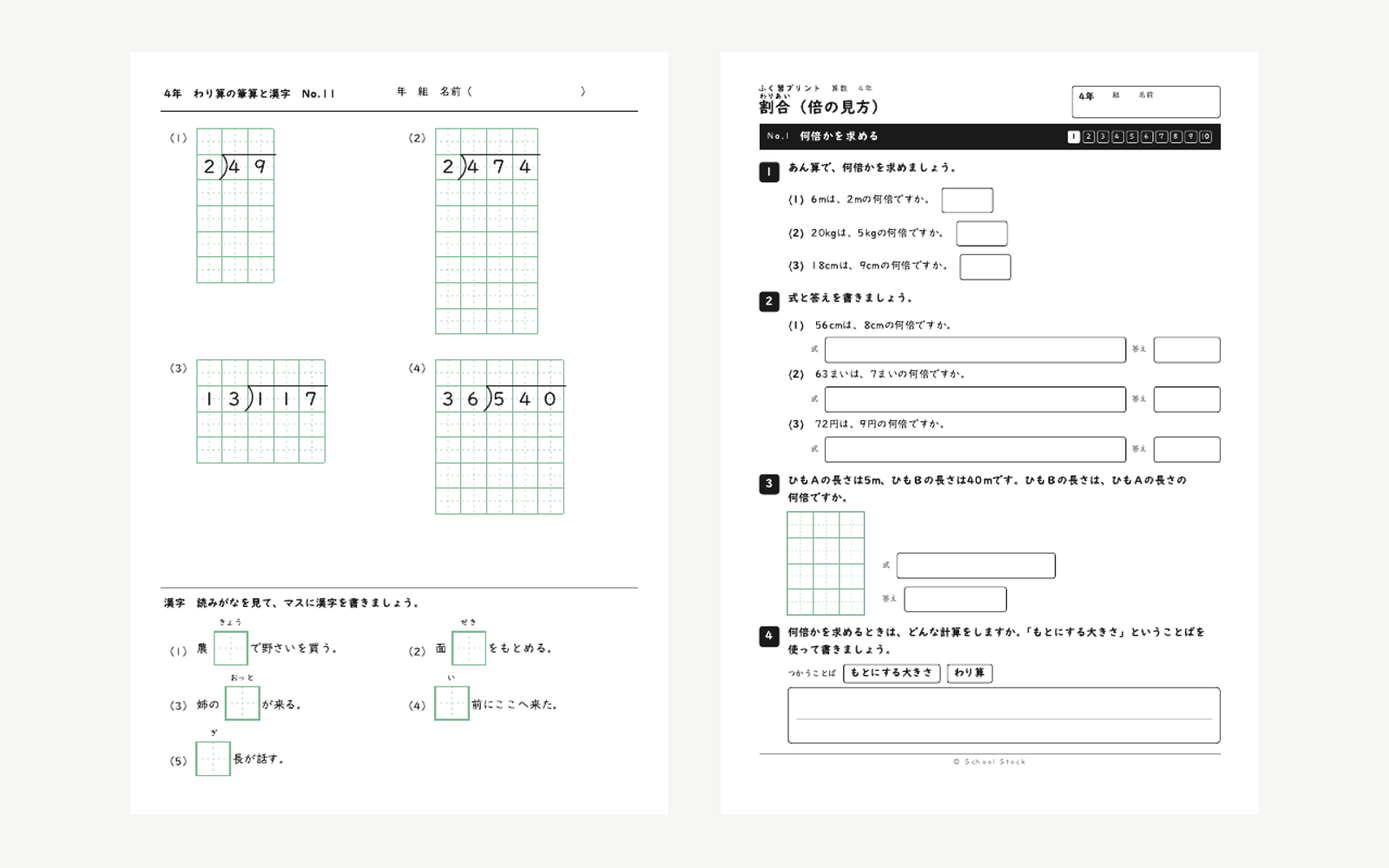
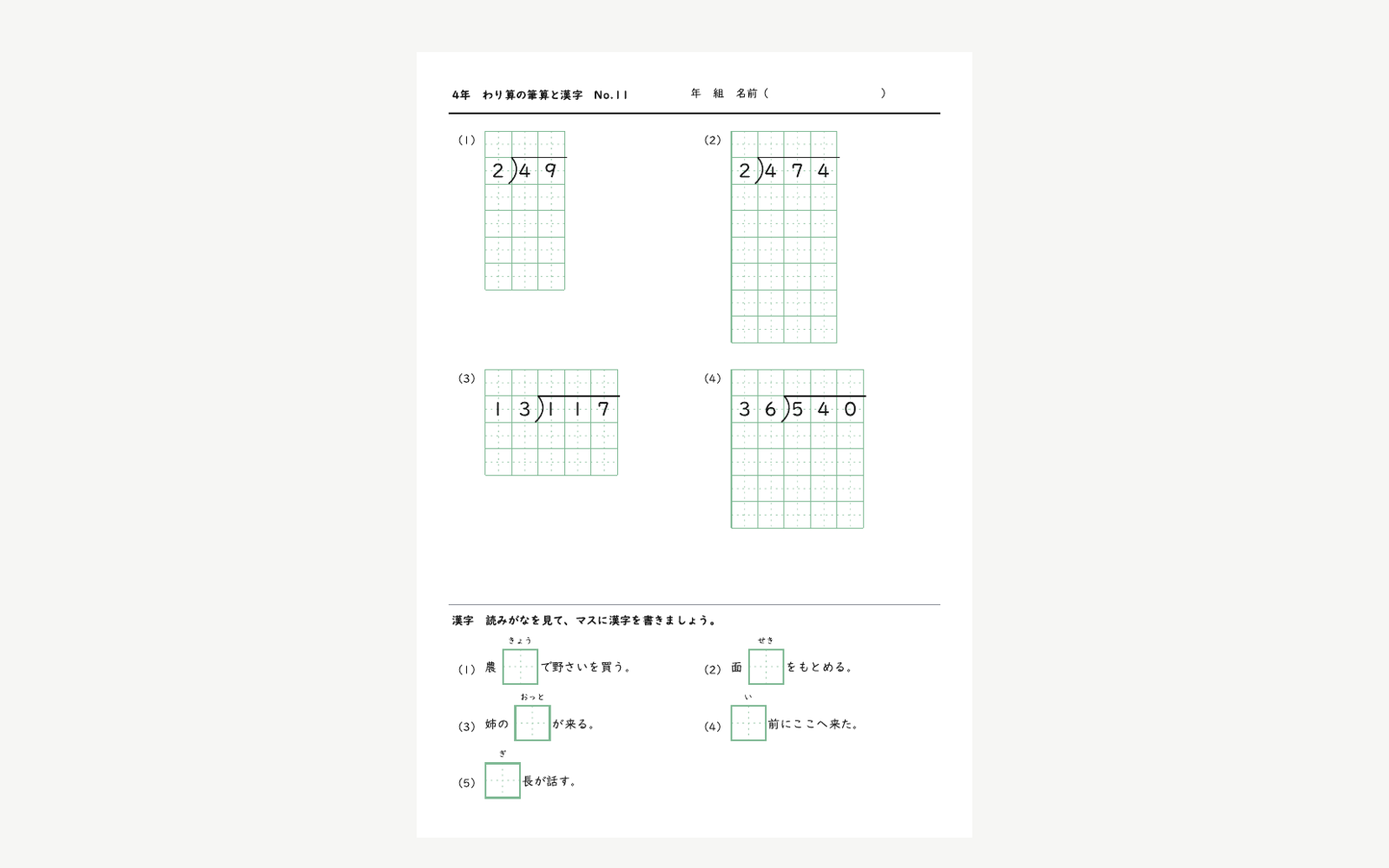
さよなら算数のページ：上の見本の絵を外し、さよなら算数（わり算の筆算と漢字）とふく習プリント（宿題）を別の列・別のダウンロードに分けた

diff --git a/gakkyu/sayonara-sansu/index.html b/gakkyu/sayonara-sansu/index.html
@@ -10,7 +10,7 @@
 <meta property="og:image" content="https://a-tozak.github.io/School_Stock/gakkyu/sayonara-sansu/card.png">
 <meta name="twitter:card" content="summary_large_image">
 <meta name="twitter:image" content="https://a-tozak.github.io/School_Stock/gakkyu/sayonara-sansu/card.png">
-<meta name="description" content="4年の学級で毎日使っている2まいのプリントです。わり算の筆算と漢字の1まいと、帰る前のさよなら算数（習った単元のふく習）1まい。2026年11月と12月の授業日37日ぶん。無料。">
+<meta name="description" content="4年の学級で、毎日帰る前に取り組んでいるプリントです。わり算の筆算4問と漢字5問の1まいで、表が問題、裏がこたえです。2026年11月と12月の授業日37日ぶん。宿題のふく習プリントも別のファイルで置いています。無料。">
 <link rel="manifest" href="/School_Stock/manifest.webmanifest">
 <meta name="theme-color" content="#0e0f11">
 <link rel="apple-touch-icon" href="/School_Stock/assets/favicon-180.png">
@@ -83,17 +83,15 @@ a { color:var(--accent); text-decoration:none; }
 .dlsub { display:inline-flex; align-items:center; gap:6px; font-size:13px; font-weight:700; color:var(--accent); border:1px solid var(--accent); padding:8px 14px; }
 .dlsub svg { width:14px; height:14px; }
 .dlsub:hover { background:var(--accent); color:#fff; }
-.tw { overflow-x:auto; margin-top:16px; }
-.days { width:100%; border-collapse:collapse; font-size:13.5px; min-width:0; }
-.days th { text-align:left; font-size:12px; color:var(--sub); font-weight:700; border-bottom:1px solid var(--ink); padding:8px 10px; }
-.days td { border-bottom:1px solid var(--line); padding:8px 10px; vertical-align:middle; }
-.days td.d { font-weight:700; white-space:nowrap; }
+.dl.sub { font-weight:500; border:none; padding:0; text-decoration:underline; text-underline-offset:3px; }
+.dl.sub svg { display:none; }
+.mdl .dlall { flex-wrap:wrap; }
+.tw { margin-top:16px; }
+.days { width:100%; border-collapse:collapse; font-size:13.5px; }
+.days th { text-align:left; font-size:12px; color:var(--sub); font-weight:700; border-bottom:1px solid var(--ink); }
+.days td { border-bottom:1px solid var(--line); vertical-align:middle; }
 .days td, .days th { padding:8px 6px; }
-.samples { display:grid; grid-template-columns:repeat(4,1fr); gap:14px; margin-top:22px; }
-.samples figure { border:1px solid var(--ink); background:#fff; }
-.samples img { width:100%; display:block; }
-.samples figcaption { font-size:11.5px; color:var(--sub); padding:6px 8px; border-top:1px solid var(--line); }
-@media (max-width:760px){ .samples { grid-template-columns:repeat(2,1fr); } }
+.days td.d { font-weight:700; white-space:nowrap; }
 </style>
 </head></head>
 <body>
@@ -140,82 +138,73 @@ a { color:var(--accent); text-decoration:none; }
   <div class="head">
     <span class="kicker">CLASSROOM｜学級経営</span>
     <h1>さよなら算数</h1>
-    <p class="lead">4年の学級で毎日使っているプリントです。1日に2まい使います。1まい目は、わり算の筆算4問と漢字5問です。朝やすきま時間に取り組みます。2まい目は、帰る前の5分から10分で取り組む「さよなら算数」です。これまでに習った単元のふく習を1まいずつ出します。</p>
-    <p class="meta">A4・1日に問題2まいとこたえ2まい　／　<b>2026年11月2日から12月24日までの授業日37日ぶん</b>　／　© School Stock</p>
-    <div class="note-use">さよなら算数は、2つの流れを1日おきに出しています。1つは、いちばん最近に終わった単元です（11月は面積とがい数、12月は小数のかけ算とわり算）。もう1つは、1学期から前に習った単元を順番に回します。わり算の筆算は1まい目で毎日練習するので、さよなら算数には入れていません。日にちは、つくった人の学級の時間割に合わせています。進みぐあいがちがう学級では、表の順番を入れかえて使ってください。</div>
-  </div>
-  <div class="samples">
-    <figure><img src="thumb/1.png" width="480" height="679" alt="11月2日のプリントのわり算の筆算と漢字（問題）の紙面" loading="lazy"><figcaption>わり算の筆算と漢字（問題）</figcaption></figure>
-    <figure><img src="thumb/2.png" width="480" height="679" alt="11月2日のプリントのわり算の筆算と漢字（こたえ）の紙面" loading="lazy"><figcaption>わり算の筆算と漢字（こたえ）</figcaption></figure>
-    <figure><img src="thumb/3.png" width="480" height="679" alt="11月2日のプリントのさよなら算数（問題）の紙面" loading="lazy"><figcaption>さよなら算数（問題）</figcaption></figure>
-    <figure><img src="thumb/4.png" width="480" height="679" alt="11月2日のプリントのさよなら算数（こたえ）の紙面" loading="lazy"><figcaption>さよなら算数（こたえ）</figcaption></figure>
+    <p class="lead">4年の学級で、毎日帰る前に取り組んでいるプリントです。わり算の筆算4問と漢字5問を1まいにしています。表が問題、裏がこたえです。あわせて、宿題に出しているふく習プリントも、日にちごとに別のファイルで置いています。</p>
+    <p class="meta">A4・1日1まい（両面）　／　<b>2026年11月2日から12月24日までの授業日37日ぶん</b>　／　© School Stock</p>
+    <div class="note-use">わり算の筆算は、2けた÷1けた、3けた÷1けた、2けたでわるわり算を毎回出しています。漢字は、2学期に習う48字を順番に出しています。同じ字でも、回ごとに例文を変えています。宿題のふく習プリントは、習った単元を1まいずつ出しています。11月は面積とがい数、12月は小数のかけ算とわり算を中心にして、1学期の単元も順番に入れています。日にちは、つくった人の学級の時間割に合わせています。</div>
   </div>
   <div class="sh" id="m11"><span class="sbar"></span><h2>11月</h2><span class="sen">授業日19日ぶん</span></div>
   <div class="mdl">
-    <a class="dlall" href="/School_Stock_files/gakkyu/sayonara-sansu/pdf/sayonara4_11_mondai.pdf" download><svg viewBox="0 0 24 24" fill="none" stroke="currentColor" stroke-width="2.2"><path d="M12 3v12M7 11l5 5 5-5M4 20h16"/></svg>11月の問題だけ<small>PDF・38ページ</small></a>
-    <a class="dlsub" href="/School_Stock_files/gakkyu/sayonara-sansu/pdf/sayonara4_11_kotae.pdf" download><svg viewBox="0 0 24 24" fill="none" stroke="currentColor" stroke-width="2.2"><path d="M12 3v12M7 11l5 5 5-5M4 20h16"/></svg>11月のこたえだけ</a>
-    <a class="dlsub" href="/School_Stock_files/gakkyu/sayonara-sansu/pdf/sayonara4_11_all.pdf" download><svg viewBox="0 0 24 24" fill="none" stroke="currentColor" stroke-width="2.2"><path d="M12 3v12M7 11l5 5 5-5M4 20h16"/></svg>11月の問題とこたえ（両面用）</a>
+    <a class="dlall" href="/School_Stock_files/gakkyu/sayonara-sansu/pdf/sayonara4_11.pdf" download><svg viewBox="0 0 24 24" fill="none" stroke="currentColor" stroke-width="2.2"><path d="M12 3v12M7 11l5 5 5-5M4 20h16"/></svg>11月のさよなら算数<small>19まいぶん・両面印刷用</small></a>
+    <a class="dlsub" href="/School_Stock_files/gakkyu/sayonara-sansu/pdf/fukushu4_11.pdf" download><svg viewBox="0 0 24 24" fill="none" stroke="currentColor" stroke-width="2.2"><path d="M12 3v12M7 11l5 5 5-5M4 20h16"/></svg>11月のふく習プリント（宿題）</a>
   </div>
   <div class="tw"><table class="days">
-    <thead><tr><th>日にち</th><th>わり算と漢字</th><th>さよなら算数</th><th></th></tr></thead>
+    <thead><tr><th>日にち</th><th>さよなら算数</th><th>ふく習プリント（宿題）</th></tr></thead>
     <tbody>
-      <tr><td class="d">11月2日（月）</td><td class="d">No.11</td><td>割合 No.1</td><td><a class="dl" href="/School_Stock_files/gakkyu/sayonara-sansu/pdf/sayonara4_1102.pdf" download><svg viewBox="0 0 24 24" fill="none" stroke="currentColor" stroke-width="2.2"><path d="M12 3v12M7 11l5 5 5-5M4 20h16"/></svg>PDF</a></td></tr>
-      <tr><td class="d">11月4日（水）</td><td class="d">No.12</td><td>一億をこえる数 No.1</td><td><a class="dl" href="/School_Stock_files/gakkyu/sayonara-sansu/pdf/sayonara4_1104.pdf" download><svg viewBox="0 0 24 24" fill="none" stroke="currentColor" stroke-width="2.2"><path d="M12 3v12M7 11l5 5 5-5M4 20h16"/></svg>PDF</a></td></tr>
-      <tr><td class="d">11月5日（木）</td><td class="d">No.13</td><td>面積 No.1</td><td><a class="dl" href="/School_Stock_files/gakkyu/sayonara-sansu/pdf/sayonara4_1105.pdf" download><svg viewBox="0 0 24 24" fill="none" stroke="currentColor" stroke-width="2.2"><path d="M12 3v12M7 11l5 5 5-5M4 20h16"/></svg>PDF</a></td></tr>
-      <tr><td class="d">11月6日（金）</td><td class="d">No.14</td><td>折れ線グラフ No.1</td><td><a class="dl" href="/School_Stock_files/gakkyu/sayonara-sansu/pdf/sayonara4_1106.pdf" download><svg viewBox="0 0 24 24" fill="none" stroke="currentColor" stroke-width="2.2"><path d="M12 3v12M7 11l5 5 5-5M4 20h16"/></svg>PDF</a></td></tr>
-      <tr><td class="d">11月9日（月）</td><td class="d">No.15</td><td>面積 No.2</td><td><a class="dl" href="/School_Stock_files/gakkyu/sayonara-sansu/pdf/sayonara4_1109.pdf" download><svg viewBox="0 0 24 24" fill="none" stroke="currentColor" stroke-width="2.2"><path d="M12 3v12M7 11l5 5 5-5M4 20h16"/></svg>PDF</a></td></tr>
-      <tr><td class="d">11月10日（火）</td><td class="d">No.16</td><td>1けたでわるわり算の筆算 No.1</td><td><a class="dl" href="/School_Stock_files/gakkyu/sayonara-sansu/pdf/sayonara4_1110.pdf" download><svg viewBox="0 0 24 24" fill="none" stroke="currentColor" stroke-width="2.2"><path d="M12 3v12M7 11l5 5 5-5M4 20h16"/></svg>PDF</a></td></tr>
-      <tr><td class="d">11月11日（水）</td><td class="d">No.17</td><td>面積 No.3</td><td><a class="dl" href="/School_Stock_files/gakkyu/sayonara-sansu/pdf/sayonara4_1111.pdf" download><svg viewBox="0 0 24 24" fill="none" stroke="currentColor" stroke-width="2.2"><path d="M12 3v12M7 11l5 5 5-5M4 20h16"/></svg>PDF</a></td></tr>
-      <tr><td class="d">11月12日（木）</td><td class="d">No.18</td><td>角とその大きさ No.1</td><td><a class="dl" href="/School_Stock_files/gakkyu/sayonara-sansu/pdf/sayonara4_1112.pdf" download><svg viewBox="0 0 24 24" fill="none" stroke="currentColor" stroke-width="2.2"><path d="M12 3v12M7 11l5 5 5-5M4 20h16"/></svg>PDF</a></td></tr>
-      <tr><td class="d">11月13日（金）</td><td class="d">No.19</td><td>面積 No.4</td><td><a class="dl" href="/School_Stock_files/gakkyu/sayonara-sansu/pdf/sayonara4_1113.pdf" download><svg viewBox="0 0 24 24" fill="none" stroke="currentColor" stroke-width="2.2"><path d="M12 3v12M7 11l5 5 5-5M4 20h16"/></svg>PDF</a></td></tr>
-      <tr><td class="d">11月16日（月）</td><td class="d">No.20</td><td>垂直・平行と四角形 No.1</td><td><a class="dl" href="/School_Stock_files/gakkyu/sayonara-sansu/pdf/sayonara4_1116.pdf" download><svg viewBox="0 0 24 24" fill="none" stroke="currentColor" stroke-width="2.2"><path d="M12 3v12M7 11l5 5 5-5M4 20h16"/></svg>PDF</a></td></tr>
-      <tr><td class="d">11月17日（火）</td><td class="d">No.21</td><td>面積 No.5</td><td><a class="dl" href="/School_Stock_files/gakkyu/sayonara-sansu/pdf/sayonara4_1117.pdf" download><svg viewBox="0 0 24 24" fill="none" stroke="currentColor" stroke-width="2.2"><path d="M12 3v12M7 11l5 5 5-5M4 20h16"/></svg>PDF</a></td></tr>
-      <tr><td class="d">11月18日（水）</td><td class="d">No.22</td><td>小数 No.1</td><td><a class="dl" href="/School_Stock_files/gakkyu/sayonara-sansu/pdf/sayonara4_1118.pdf" download><svg viewBox="0 0 24 24" fill="none" stroke="currentColor" stroke-width="2.2"><path d="M12 3v12M7 11l5 5 5-5M4 20h16"/></svg>PDF</a></td></tr>
-      <tr><td class="d">11月19日（木）</td><td class="d">No.23</td><td>がい数とその計算 No.1</td><td><a class="dl" href="/School_Stock_files/gakkyu/sayonara-sansu/pdf/sayonara4_1119.pdf" download><svg viewBox="0 0 24 24" fill="none" stroke="currentColor" stroke-width="2.2"><path d="M12 3v12M7 11l5 5 5-5M4 20h16"/></svg>PDF</a></td></tr>
-      <tr><td class="d">11月20日（金）</td><td class="d">No.24</td><td>式と計算の順じょ No.1</td><td><a class="dl" href="/School_Stock_files/gakkyu/sayonara-sansu/pdf/sayonara4_1120.pdf" download><svg viewBox="0 0 24 24" fill="none" stroke="currentColor" stroke-width="2.2"><path d="M12 3v12M7 11l5 5 5-5M4 20h16"/></svg>PDF</a></td></tr>
-      <tr><td class="d">11月24日（火）</td><td class="d">No.25</td><td>がい数とその計算 No.2</td><td><a class="dl" href="/School_Stock_files/gakkyu/sayonara-sansu/pdf/sayonara4_1124.pdf" download><svg viewBox="0 0 24 24" fill="none" stroke="currentColor" stroke-width="2.2"><path d="M12 3v12M7 11l5 5 5-5M4 20h16"/></svg>PDF</a></td></tr>
-      <tr><td class="d">11月25日（水）</td><td class="d">No.26</td><td>割合 No.2</td><td><a class="dl" href="/School_Stock_files/gakkyu/sayonara-sansu/pdf/sayonara4_1125.pdf" download><svg viewBox="0 0 24 24" fill="none" stroke="currentColor" stroke-width="2.2"><path d="M12 3v12M7 11l5 5 5-5M4 20h16"/></svg>PDF</a></td></tr>
-      <tr><td class="d">11月26日（木）</td><td class="d">No.27</td><td>がい数とその計算 No.3</td><td><a class="dl" href="/School_Stock_files/gakkyu/sayonara-sansu/pdf/sayonara4_1126.pdf" download><svg viewBox="0 0 24 24" fill="none" stroke="currentColor" stroke-width="2.2"><path d="M12 3v12M7 11l5 5 5-5M4 20h16"/></svg>PDF</a></td></tr>
-      <tr><td class="d">11月27日（金）</td><td class="d">No.28</td><td>一億をこえる数 No.2</td><td><a class="dl" href="/School_Stock_files/gakkyu/sayonara-sansu/pdf/sayonara4_1127.pdf" download><svg viewBox="0 0 24 24" fill="none" stroke="currentColor" stroke-width="2.2"><path d="M12 3v12M7 11l5 5 5-5M4 20h16"/></svg>PDF</a></td></tr>
-      <tr><td class="d">11月30日（月）</td><td class="d">No.29</td><td>がい数とその計算 No.4</td><td><a class="dl" href="/School_Stock_files/gakkyu/sayonara-sansu/pdf/sayonara4_1130.pdf" download><svg viewBox="0 0 24 24" fill="none" stroke="currentColor" stroke-width="2.2"><path d="M12 3v12M7 11l5 5 5-5M4 20h16"/></svg>PDF</a></td></tr>
+      <tr><td class="d">11月2日（月）</td><td><a class="dl" href="/School_Stock_files/gakkyu/sayonara-sansu/pdf/sayonara4_1102.pdf" download><svg viewBox="0 0 24 24" fill="none" stroke="currentColor" stroke-width="2.2"><path d="M12 3v12M7 11l5 5 5-5M4 20h16"/></svg>No.11</a></td><td><a class="dl sub" href="/School_Stock_files/gakkyu/sayonara-sansu/pdf/fukushu4_1102.pdf" download><svg viewBox="0 0 24 24" fill="none" stroke="currentColor" stroke-width="2.2"><path d="M12 3v12M7 11l5 5 5-5M4 20h16"/></svg>割合 No.1</a></td></tr>
+      <tr><td class="d">11月4日（水）</td><td><a class="dl" href="/School_Stock_files/gakkyu/sayonara-sansu/pdf/sayonara4_1104.pdf" download><svg viewBox="0 0 24 24" fill="none" stroke="currentColor" stroke-width="2.2"><path d="M12 3v12M7 11l5 5 5-5M4 20h16"/></svg>No.12</a></td><td><a class="dl sub" href="/School_Stock_files/gakkyu/sayonara-sansu/pdf/fukushu4_1104.pdf" download><svg viewBox="0 0 24 24" fill="none" stroke="currentColor" stroke-width="2.2"><path d="M12 3v12M7 11l5 5 5-5M4 20h16"/></svg>一億をこえる数 No.1</a></td></tr>
+      <tr><td class="d">11月5日（木）</td><td><a class="dl" href="/School_Stock_files/gakkyu/sayonara-sansu/pdf/sayonara4_1105.pdf" download><svg viewBox="0 0 24 24" fill="none" stroke="currentColor" stroke-width="2.2"><path d="M12 3v12M7 11l5 5 5-5M4 20h16"/></svg>No.13</a></td><td><a class="dl sub" href="/School_Stock_files/gakkyu/sayonara-sansu/pdf/fukushu4_1105.pdf" download><svg viewBox="0 0 24 24" fill="none" stroke="currentColor" stroke-width="2.2"><path d="M12 3v12M7 11l5 5 5-5M4 20h16"/></svg>面積 No.1</a></td></tr>
+      <tr><td class="d">11月6日（金）</td><td><a class="dl" href="/School_Stock_files/gakkyu/sayonara-sansu/pdf/sayonara4_1106.pdf" download><svg viewBox="0 0 24 24" fill="none" stroke="currentColor" stroke-width="2.2"><path d="M12 3v12M7 11l5 5 5-5M4 20h16"/></svg>No.14</a></td><td><a class="dl sub" href="/School_Stock_files/gakkyu/sayonara-sansu/pdf/fukushu4_1106.pdf" download><svg viewBox="0 0 24 24" fill="none" stroke="currentColor" stroke-width="2.2"><path d="M12 3v12M7 11l5 5 5-5M4 20h16"/></svg>折れ線グラフ No.1</a></td></tr>
+      <tr><td class="d">11月9日（月）</td><td><a class="dl" href="/School_Stock_files/gakkyu/sayonara-sansu/pdf/sayonara4_1109.pdf" download><svg viewBox="0 0 24 24" fill="none" stroke="currentColor" stroke-width="2.2"><path d="M12 3v12M7 11l5 5 5-5M4 20h16"/></svg>No.15</a></td><td><a class="dl sub" href="/School_Stock_files/gakkyu/sayonara-sansu/pdf/fukushu4_1109.pdf" download><svg viewBox="0 0 24 24" fill="none" stroke="currentColor" stroke-width="2.2"><path d="M12 3v12M7 11l5 5 5-5M4 20h16"/></svg>面積 No.2</a></td></tr>
+      <tr><td class="d">11月10日（火）</td><td><a class="dl" href="/School_Stock_files/gakkyu/sayonara-sansu/pdf/sayonara4_1110.pdf" download><svg viewBox="0 0 24 24" fill="none" stroke="currentColor" stroke-width="2.2"><path d="M12 3v12M7 11l5 5 5-5M4 20h16"/></svg>No.16</a></td><td><a class="dl sub" href="/School_Stock_files/gakkyu/sayonara-sansu/pdf/fukushu4_1110.pdf" download><svg viewBox="0 0 24 24" fill="none" stroke="currentColor" stroke-width="2.2"><path d="M12 3v12M7 11l5 5 5-5M4 20h16"/></svg>1けたでわるわり算の筆算 No.1</a></td></tr>
+      <tr><td class="d">11月11日（水）</td><td><a class="dl" href="/School_Stock_files/gakkyu/sayonara-sansu/pdf/sayonara4_1111.pdf" download><svg viewBox="0 0 24 24" fill="none" stroke="currentColor" stroke-width="2.2"><path d="M12 3v12M7 11l5 5 5-5M4 20h16"/></svg>No.17</a></td><td><a class="dl sub" href="/School_Stock_files/gakkyu/sayonara-sansu/pdf/fukushu4_1111.pdf" download><svg viewBox="0 0 24 24" fill="none" stroke="currentColor" stroke-width="2.2"><path d="M12 3v12M7 11l5 5 5-5M4 20h16"/></svg>面積 No.3</a></td></tr>
+      <tr><td class="d">11月12日（木）</td><td><a class="dl" href="/School_Stock_files/gakkyu/sayonara-sansu/pdf/sayonara4_1112.pdf" download><svg viewBox="0 0 24 24" fill="none" stroke="currentColor" stroke-width="2.2"><path d="M12 3v12M7 11l5 5 5-5M4 20h16"/></svg>No.18</a></td><td><a class="dl sub" href="/School_Stock_files/gakkyu/sayonara-sansu/pdf/fukushu4_1112.pdf" download><svg viewBox="0 0 24 24" fill="none" stroke="currentColor" stroke-width="2.2"><path d="M12 3v12M7 11l5 5 5-5M4 20h16"/></svg>角とその大きさ No.1</a></td></tr>
+      <tr><td class="d">11月13日（金）</td><td><a class="dl" href="/School_Stock_files/gakkyu/sayonara-sansu/pdf/sayonara4_1113.pdf" download><svg viewBox="0 0 24 24" fill="none" stroke="currentColor" stroke-width="2.2"><path d="M12 3v12M7 11l5 5 5-5M4 20h16"/></svg>No.19</a></td><td><a class="dl sub" href="/School_Stock_files/gakkyu/sayonara-sansu/pdf/fukushu4_1113.pdf" download><svg viewBox="0 0 24 24" fill="none" stroke="currentColor" stroke-width="2.2"><path d="M12 3v12M7 11l5 5 5-5M4 20h16"/></svg>面積 No.4</a></td></tr>
+      <tr><td class="d">11月16日（月）</td><td><a class="dl" href="/School_Stock_files/gakkyu/sayonara-sansu/pdf/sayonara4_1116.pdf" download><svg viewBox="0 0 24 24" fill="none" stroke="currentColor" stroke-width="2.2"><path d="M12 3v12M7 11l5 5 5-5M4 20h16"/></svg>No.20</a></td><td><a class="dl sub" href="/School_Stock_files/gakkyu/sayonara-sansu/pdf/fukushu4_1116.pdf" download><svg viewBox="0 0 24 24" fill="none" stroke="currentColor" stroke-width="2.2"><path d="M12 3v12M7 11l5 5 5-5M4 20h16"/></svg>垂直・平行と四角形 No.1</a></td></tr>
+      <tr><td class="d">11月17日（火）</td><td><a class="dl" href="/School_Stock_files/gakkyu/sayonara-sansu/pdf/sayonara4_1117.pdf" download><svg viewBox="0 0 24 24" fill="none" stroke="currentColor" stroke-width="2.2"><path d="M12 3v12M7 11l5 5 5-5M4 20h16"/></svg>No.21</a></td><td><a class="dl sub" href="/School_Stock_files/gakkyu/sayonara-sansu/pdf/fukushu4_1117.pdf" download><svg viewBox="0 0 24 24" fill="none" stroke="currentColor" stroke-width="2.2"><path d="M12 3v12M7 11l5 5 5-5M4 20h16"/></svg>面積 No.5</a></td></tr>
+      <tr><td class="d">11月18日（水）</td><td><a class="dl" href="/School_Stock_files/gakkyu/sayonara-sansu/pdf/sayonara4_1118.pdf" download><svg viewBox="0 0 24 24" fill="none" stroke="currentColor" stroke-width="2.2"><path d="M12 3v12M7 11l5 5 5-5M4 20h16"/></svg>No.22</a></td><td><a class="dl sub" href="/School_Stock_files/gakkyu/sayonara-sansu/pdf/fukushu4_1118.pdf" download><svg viewBox="0 0 24 24" fill="none" stroke="currentColor" stroke-width="2.2"><path d="M12 3v12M7 11l5 5 5-5M4 20h16"/></svg>小数 No.1</a></td></tr>
+      <tr><td class="d">11月19日（木）</td><td><a class="dl" href="/School_Stock_files/gakkyu/sayonara-sansu/pdf/sayonara4_1119.pdf" download><svg viewBox="0 0 24 24" fill="none" stroke="currentColor" stroke-width="2.2"><path d="M12 3v12M7 11l5 5 5-5M4 20h16"/></svg>No.23</a></td><td><a class="dl sub" href="/School_Stock_files/gakkyu/sayonara-sansu/pdf/fukushu4_1119.pdf" download><svg viewBox="0 0 24 24" fill="none" stroke="currentColor" stroke-width="2.2"><path d="M12 3v12M7 11l5 5 5-5M4 20h16"/></svg>がい数とその計算 No.1</a></td></tr>
+      <tr><td class="d">11月20日（金）</td><td><a class="dl" href="/School_Stock_files/gakkyu/sayonara-sansu/pdf/sayonara4_1120.pdf" download><svg viewBox="0 0 24 24" fill="none" stroke="currentColor" stroke-width="2.2"><path d="M12 3v12M7 11l5 5 5-5M4 20h16"/></svg>No.24</a></td><td><a class="dl sub" href="/School_Stock_files/gakkyu/sayonara-sansu/pdf/fukushu4_1120.pdf" download><svg viewBox="0 0 24 24" fill="none" stroke="currentColor" stroke-width="2.2"><path d="M12 3v12M7 11l5 5 5-5M4 20h16"/></svg>式と計算の順じょ No.1</a></td></tr>
+      <tr><td class="d">11月24日（火）</td><td><a class="dl" href="/School_Stock_files/gakkyu/sayonara-sansu/pdf/sayonara4_1124.pdf" download><svg viewBox="0 0 24 24" fill="none" stroke="currentColor" stroke-width="2.2"><path d="M12 3v12M7 11l5 5 5-5M4 20h16"/></svg>No.25</a></td><td><a class="dl sub" href="/School_Stock_files/gakkyu/sayonara-sansu/pdf/fukushu4_1124.pdf" download><svg viewBox="0 0 24 24" fill="none" stroke="currentColor" stroke-width="2.2"><path d="M12 3v12M7 11l5 5 5-5M4 20h16"/></svg>がい数とその計算 No.2</a></td></tr>
+      <tr><td class="d">11月25日（水）</td><td><a class="dl" href="/School_Stock_files/gakkyu/sayonara-sansu/pdf/sayonara4_1125.pdf" download><svg viewBox="0 0 24 24" fill="none" stroke="currentColor" stroke-width="2.2"><path d="M12 3v12M7 11l5 5 5-5M4 20h16"/></svg>No.26</a></td><td><a class="dl sub" href="/School_Stock_files/gakkyu/sayonara-sansu/pdf/fukushu4_1125.pdf" download><svg viewBox="0 0 24 24" fill="none" stroke="currentColor" stroke-width="2.2"><path d="M12 3v12M7 11l5 5 5-5M4 20h16"/></svg>割合 No.2</a></td></tr>
+      <tr><td class="d">11月26日（木）</td><td><a class="dl" href="/School_Stock_files/gakkyu/sayonara-sansu/pdf/sayonara4_1126.pdf" download><svg viewBox="0 0 24 24" fill="none" stroke="currentColor" stroke-width="2.2"><path d="M12 3v12M7 11l5 5 5-5M4 20h16"/></svg>No.27</a></td><td><a class="dl sub" href="/School_Stock_files/gakkyu/sayonara-sansu/pdf/fukushu4_1126.pdf" download><svg viewBox="0 0 24 24" fill="none" stroke="currentColor" stroke-width="2.2"><path d="M12 3v12M7 11l5 5 5-5M4 20h16"/></svg>がい数とその計算 No.3</a></td></tr>
+      <tr><td class="d">11月27日（金）</td><td><a class="dl" href="/School_Stock_files/gakkyu/sayonara-sansu/pdf/sayonara4_1127.pdf" download><svg viewBox="0 0 24 24" fill="none" stroke="currentColor" stroke-width="2.2"><path d="M12 3v12M7 11l5 5 5-5M4 20h16"/></svg>No.28</a></td><td><a class="dl sub" href="/School_Stock_files/gakkyu/sayonara-sansu/pdf/fukushu4_1127.pdf" download><svg viewBox="0 0 24 24" fill="none" stroke="currentColor" stroke-width="2.2"><path d="M12 3v12M7 11l5 5 5-5M4 20h16"/></svg>一億をこえる数 No.2</a></td></tr>
+      <tr><td class="d">11月30日（月）</td><td><a class="dl" href="/School_Stock_files/gakkyu/sayonara-sansu/pdf/sayonara4_1130.pdf" download><svg viewBox="0 0 24 24" fill="none" stroke="currentColor" stroke-width="2.2"><path d="M12 3v12M7 11l5 5 5-5M4 20h16"/></svg>No.29</a></td><td><a class="dl sub" href="/School_Stock_files/gakkyu/sayonara-sansu/pdf/fukushu4_1130.pdf" download><svg viewBox="0 0 24 24" fill="none" stroke="currentColor" stroke-width="2.2"><path d="M12 3v12M7 11l5 5 5-5M4 20h16"/></svg>がい数とその計算 No.4</a></td></tr>
     </tbody>
   </table></div>
   <div class="sh" id="m12"><span class="sbar"></span><h2>12月</h2><span class="sen">授業日18日ぶん</span></div>
   <div class="mdl">
-    <a class="dlall" href="/School_Stock_files/gakkyu/sayonara-sansu/pdf/sayonara4_12_mondai.pdf" download><svg viewBox="0 0 24 24" fill="none" stroke="currentColor" stroke-width="2.2"><path d="M12 3v12M7 11l5 5 5-5M4 20h16"/></svg>12月の問題だけ<small>PDF・36ページ</small></a>
-    <a class="dlsub" href="/School_Stock_files/gakkyu/sayonara-sansu/pdf/sayonara4_12_kotae.pdf" download><svg viewBox="0 0 24 24" fill="none" stroke="currentColor" stroke-width="2.2"><path d="M12 3v12M7 11l5 5 5-5M4 20h16"/></svg>12月のこたえだけ</a>
-    <a class="dlsub" href="/School_Stock_files/gakkyu/sayonara-sansu/pdf/sayonara4_12_all.pdf" download><svg viewBox="0 0 24 24" fill="none" stroke="currentColor" stroke-width="2.2"><path d="M12 3v12M7 11l5 5 5-5M4 20h16"/></svg>12月の問題とこたえ（両面用）</a>
+    <a class="dlall" href="/School_Stock_files/gakkyu/sayonara-sansu/pdf/sayonara4_12.pdf" download><svg viewBox="0 0 24 24" fill="none" stroke="currentColor" stroke-width="2.2"><path d="M12 3v12M7 11l5 5 5-5M4 20h16"/></svg>12月のさよなら算数<small>18まいぶん・両面印刷用</small></a>
+    <a class="dlsub" href="/School_Stock_files/gakkyu/sayonara-sansu/pdf/fukushu4_12.pdf" download><svg viewBox="0 0 24 24" fill="none" stroke="currentColor" stroke-width="2.2"><path d="M12 3v12M7 11l5 5 5-5M4 20h16"/></svg>12月のふく習プリント（宿題）</a>
   </div>
   <div class="tw"><table class="days">
-    <thead><tr><th>日にち</th><th>わり算と漢字</th><th>さよなら算数</th><th></th></tr></thead>
+    <thead><tr><th>日にち</th><th>さよなら算数</th><th>ふく習プリント（宿題）</th></tr></thead>
     <tbody>
-      <tr><td class="d">12月1日（火）</td><td class="d">No.30</td><td>折れ線グラフ No.2</td><td><a class="dl" href="/School_Stock_files/gakkyu/sayonara-sansu/pdf/sayonara4_1201.pdf" download><svg viewBox="0 0 24 24" fill="none" stroke="currentColor" stroke-width="2.2"><path d="M12 3v12M7 11l5 5 5-5M4 20h16"/></svg>PDF</a></td></tr>
-      <tr><td class="d">12月2日（水）</td><td class="d">No.31</td><td>がい数とその計算 No.5</td><td><a class="dl" href="/School_Stock_files/gakkyu/sayonara-sansu/pdf/sayonara4_1202.pdf" download><svg viewBox="0 0 24 24" fill="none" stroke="currentColor" stroke-width="2.2"><path d="M12 3v12M7 11l5 5 5-5M4 20h16"/></svg>PDF</a></td></tr>
-      <tr><td class="d">12月3日（木）</td><td class="d">No.32</td><td>1けたでわるわり算の筆算 No.2</td><td><a class="dl" href="/School_Stock_files/gakkyu/sayonara-sansu/pdf/sayonara4_1203.pdf" download><svg viewBox="0 0 24 24" fill="none" stroke="currentColor" stroke-width="2.2"><path d="M12 3v12M7 11l5 5 5-5M4 20h16"/></svg>PDF</a></td></tr>
-      <tr><td class="d">12月4日（金）</td><td class="d">No.33</td><td>がい数とその計算 No.6</td><td><a class="dl" href="/School_Stock_files/gakkyu/sayonara-sansu/pdf/sayonara4_1204.pdf" download><svg viewBox="0 0 24 24" fill="none" stroke="currentColor" stroke-width="2.2"><path d="M12 3v12M7 11l5 5 5-5M4 20h16"/></svg>PDF</a></td></tr>
-      <tr><td class="d">12月7日（月）</td><td class="d">No.34</td><td>角とその大きさ No.2</td><td><a class="dl" href="/School_Stock_files/gakkyu/sayonara-sansu/pdf/sayonara4_1207.pdf" download><svg viewBox="0 0 24 24" fill="none" stroke="currentColor" stroke-width="2.2"><path d="M12 3v12M7 11l5 5 5-5M4 20h16"/></svg>PDF</a></td></tr>
-      <tr><td class="d">12月8日（火）</td><td class="d">No.35</td><td>がい数とその計算 No.7</td><td><a class="dl" href="/School_Stock_files/gakkyu/sayonara-sansu/pdf/sayonara4_1208.pdf" download><svg viewBox="0 0 24 24" fill="none" stroke="currentColor" stroke-width="2.2"><path d="M12 3v12M7 11l5 5 5-5M4 20h16"/></svg>PDF</a></td></tr>
-      <tr><td class="d">12月9日（水）</td><td class="d">No.36</td><td>垂直・平行と四角形 No.2</td><td><a class="dl" href="/School_Stock_files/gakkyu/sayonara-sansu/pdf/sayonara4_1209.pdf" download><svg viewBox="0 0 24 24" fill="none" stroke="currentColor" stroke-width="2.2"><path d="M12 3v12M7 11l5 5 5-5M4 20h16"/></svg>PDF</a></td></tr>
-      <tr><td class="d">12月10日（木）</td><td class="d">No.37</td><td>がい数とその計算 No.8</td><td><a class="dl" href="/School_Stock_files/gakkyu/sayonara-sansu/pdf/sayonara4_1210.pdf" download><svg viewBox="0 0 24 24" fill="none" stroke="currentColor" stroke-width="2.2"><path d="M12 3v12M7 11l5 5 5-5M4 20h16"/></svg>PDF</a></td></tr>
-      <tr><td class="d">12月11日（金）</td><td class="d">No.38</td><td>面積 No.6</td><td><a class="dl" href="/School_Stock_files/gakkyu/sayonara-sansu/pdf/sayonara4_1211.pdf" download><svg viewBox="0 0 24 24" fill="none" stroke="currentColor" stroke-width="2.2"><path d="M12 3v12M7 11l5 5 5-5M4 20h16"/></svg>PDF</a></td></tr>
-      <tr><td class="d">12月14日（月）</td><td class="d">No.39</td><td>がい数とその計算 No.9</td><td><a class="dl" href="/School_Stock_files/gakkyu/sayonara-sansu/pdf/sayonara4_1214.pdf" download><svg viewBox="0 0 24 24" fill="none" stroke="currentColor" stroke-width="2.2"><path d="M12 3v12M7 11l5 5 5-5M4 20h16"/></svg>PDF</a></td></tr>
-      <tr><td class="d">12月15日（火）</td><td class="d">No.40</td><td>小数 No.2</td><td><a class="dl" href="/School_Stock_files/gakkyu/sayonara-sansu/pdf/sayonara4_1215.pdf" download><svg viewBox="0 0 24 24" fill="none" stroke="currentColor" stroke-width="2.2"><path d="M12 3v12M7 11l5 5 5-5M4 20h16"/></svg>PDF</a></td></tr>
-      <tr><td class="d">12月16日（水）</td><td class="d">No.41</td><td>小数のかけ算とわり算 No.1</td><td><a class="dl" href="/School_Stock_files/gakkyu/sayonara-sansu/pdf/sayonara4_1216.pdf" download><svg viewBox="0 0 24 24" fill="none" stroke="currentColor" stroke-width="2.2"><path d="M12 3v12M7 11l5 5 5-5M4 20h16"/></svg>PDF</a></td></tr>
-      <tr><td class="d">12月17日（木）</td><td class="d">No.42</td><td>式と計算の順じょ No.2</td><td><a class="dl" href="/School_Stock_files/gakkyu/sayonara-sansu/pdf/sayonara4_1217.pdf" download><svg viewBox="0 0 24 24" fill="none" stroke="currentColor" stroke-width="2.2"><path d="M12 3v12M7 11l5 5 5-5M4 20h16"/></svg>PDF</a></td></tr>
-      <tr><td class="d">12月18日（金）</td><td class="d">No.43</td><td>小数のかけ算とわり算 No.2</td><td><a class="dl" href="/School_Stock_files/gakkyu/sayonara-sansu/pdf/sayonara4_1218.pdf" download><svg viewBox="0 0 24 24" fill="none" stroke="currentColor" stroke-width="2.2"><path d="M12 3v12M7 11l5 5 5-5M4 20h16"/></svg>PDF</a></td></tr>
-      <tr><td class="d">12月21日（月）</td><td class="d">No.44</td><td>割合 No.3</td><td><a class="dl" href="/School_Stock_files/gakkyu/sayonara-sansu/pdf/sayonara4_1221.pdf" download><svg viewBox="0 0 24 24" fill="none" stroke="currentColor" stroke-width="2.2"><path d="M12 3v12M7 11l5 5 5-5M4 20h16"/></svg>PDF</a></td></tr>
-      <tr><td class="d">12月22日（火）</td><td class="d">No.45</td><td>小数のかけ算とわり算 No.3</td><td><a class="dl" href="/School_Stock_files/gakkyu/sayonara-sansu/pdf/sayonara4_1222.pdf" download><svg viewBox="0 0 24 24" fill="none" stroke="currentColor" stroke-width="2.2"><path d="M12 3v12M7 11l5 5 5-5M4 20h16"/></svg>PDF</a></td></tr>
-      <tr><td class="d">12月23日（水）</td><td class="d">No.46</td><td>一億をこえる数 No.3</td><td><a class="dl" href="/School_Stock_files/gakkyu/sayonara-sansu/pdf/sayonara4_1223.pdf" download><svg viewBox="0 0 24 24" fill="none" stroke="currentColor" stroke-width="2.2"><path d="M12 3v12M7 11l5 5 5-5M4 20h16"/></svg>PDF</a></td></tr>
-      <tr><td class="d">12月24日（木）</td><td class="d">No.47</td><td>小数のかけ算とわり算 No.4</td><td><a class="dl" href="/School_Stock_files/gakkyu/sayonara-sansu/pdf/sayonara4_1224.pdf" download><svg viewBox="0 0 24 24" fill="none" stroke="currentColor" stroke-width="2.2"><path d="M12 3v12M7 11l5 5 5-5M4 20h16"/></svg>PDF</a></td></tr>
+      <tr><td class="d">12月1日（火）</td><td><a class="dl" href="/School_Stock_files/gakkyu/sayonara-sansu/pdf/sayonara4_1201.pdf" download><svg viewBox="0 0 24 24" fill="none" stroke="currentColor" stroke-width="2.2"><path d="M12 3v12M7 11l5 5 5-5M4 20h16"/></svg>No.30</a></td><td><a class="dl sub" href="/School_Stock_files/gakkyu/sayonara-sansu/pdf/fukushu4_1201.pdf" download><svg viewBox="0 0 24 24" fill="none" stroke="currentColor" stroke-width="2.2"><path d="M12 3v12M7 11l5 5 5-5M4 20h16"/></svg>折れ線グラフ No.2</a></td></tr>
+      <tr><td class="d">12月2日（水）</td><td><a class="dl" href="/School_Stock_files/gakkyu/sayonara-sansu/pdf/sayonara4_1202.pdf" download><svg viewBox="0 0 24 24" fill="none" stroke="currentColor" stroke-width="2.2"><path d="M12 3v12M7 11l5 5 5-5M4 20h16"/></svg>No.31</a></td><td><a class="dl sub" href="/School_Stock_files/gakkyu/sayonara-sansu/pdf/fukushu4_1202.pdf" download><svg viewBox="0 0 24 24" fill="none" stroke="currentColor" stroke-width="2.2"><path d="M12 3v12M7 11l5 5 5-5M4 20h16"/></svg>がい数とその計算 No.5</a></td></tr>
+      <tr><td class="d">12月3日（木）</td><td><a class="dl" href="/School_Stock_files/gakkyu/sayonara-sansu/pdf/sayonara4_1203.pdf" download><svg viewBox="0 0 24 24" fill="none" stroke="currentColor" stroke-width="2.2"><path d="M12 3v12M7 11l5 5 5-5M4 20h16"/></svg>No.32</a></td><td><a class="dl sub" href="/School_Stock_files/gakkyu/sayonara-sansu/pdf/fukushu4_1203.pdf" download><svg viewBox="0 0 24 24" fill="none" stroke="currentColor" stroke-width="2.2"><path d="M12 3v12M7 11l5 5 5-5M4 20h16"/></svg>1けたでわるわり算の筆算 No.2</a></td></tr>
+      <tr><td class="d">12月4日（金）</td><td><a class="dl" href="/School_Stock_files/gakkyu/sayonara-sansu/pdf/sayonara4_1204.pdf" download><svg viewBox="0 0 24 24" fill="none" stroke="currentColor" stroke-width="2.2"><path d="M12 3v12M7 11l5 5 5-5M4 20h16"/></svg>No.33</a></td><td><a class="dl sub" href="/School_Stock_files/gakkyu/sayonara-sansu/pdf/fukushu4_1204.pdf" download><svg viewBox="0 0 24 24" fill="none" stroke="currentColor" stroke-width="2.2"><path d="M12 3v12M7 11l5 5 5-5M4 20h16"/></svg>がい数とその計算 No.6</a></td></tr>
+      <tr><td class="d">12月7日（月）</td><td><a class="dl" href="/School_Stock_files/gakkyu/sayonara-sansu/pdf/sayonara4_1207.pdf" download><svg viewBox="0 0 24 24" fill="none" stroke="currentColor" stroke-width="2.2"><path d="M12 3v12M7 11l5 5 5-5M4 20h16"/></svg>No.34</a></td><td><a class="dl sub" href="/School_Stock_files/gakkyu/sayonara-sansu/pdf/fukushu4_1207.pdf" download><svg viewBox="0 0 24 24" fill="none" stroke="currentColor" stroke-width="2.2"><path d="M12 3v12M7 11l5 5 5-5M4 20h16"/></svg>角とその大きさ No.2</a></td></tr>
+      <tr><td class="d">12月8日（火）</td><td><a class="dl" href="/School_Stock_files/gakkyu/sayonara-sansu/pdf/sayonara4_1208.pdf" download><svg viewBox="0 0 24 24" fill="none" stroke="currentColor" stroke-width="2.2"><path d="M12 3v12M7 11l5 5 5-5M4 20h16"/></svg>No.35</a></td><td><a class="dl sub" href="/School_Stock_files/gakkyu/sayonara-sansu/pdf/fukushu4_1208.pdf" download><svg viewBox="0 0 24 24" fill="none" stroke="currentColor" stroke-width="2.2"><path d="M12 3v12M7 11l5 5 5-5M4 20h16"/></svg>がい数とその計算 No.7</a></td></tr>
+      <tr><td class="d">12月9日（水）</td><td><a class="dl" href="/School_Stock_files/gakkyu/sayonara-sansu/pdf/sayonara4_1209.pdf" download><svg viewBox="0 0 24 24" fill="none" stroke="currentColor" stroke-width="2.2"><path d="M12 3v12M7 11l5 5 5-5M4 20h16"/></svg>No.36</a></td><td><a class="dl sub" href="/School_Stock_files/gakkyu/sayonara-sansu/pdf/fukushu4_1209.pdf" download><svg viewBox="0 0 24 24" fill="none" stroke="currentColor" stroke-width="2.2"><path d="M12 3v12M7 11l5 5 5-5M4 20h16"/></svg>垂直・平行と四角形 No.2</a></td></tr>
+      <tr><td class="d">12月10日（木）</td><td><a class="dl" href="/School_Stock_files/gakkyu/sayonara-sansu/pdf/sayonara4_1210.pdf" download><svg viewBox="0 0 24 24" fill="none" stroke="currentColor" stroke-width="2.2"><path d="M12 3v12M7 11l5 5 5-5M4 20h16"/></svg>No.37</a></td><td><a class="dl sub" href="/School_Stock_files/gakkyu/sayonara-sansu/pdf/fukushu4_1210.pdf" download><svg viewBox="0 0 24 24" fill="none" stroke="currentColor" stroke-width="2.2"><path d="M12 3v12M7 11l5 5 5-5M4 20h16"/></svg>がい数とその計算 No.8</a></td></tr>
+      <tr><td class="d">12月11日（金）</td><td><a class="dl" href="/School_Stock_files/gakkyu/sayonara-sansu/pdf/sayonara4_1211.pdf" download><svg viewBox="0 0 24 24" fill="none" stroke="currentColor" stroke-width="2.2"><path d="M12 3v12M7 11l5 5 5-5M4 20h16"/></svg>No.38</a></td><td><a class="dl sub" href="/School_Stock_files/gakkyu/sayonara-sansu/pdf/fukushu4_1211.pdf" download><svg viewBox="0 0 24 24" fill="none" stroke="currentColor" stroke-width="2.2"><path d="M12 3v12M7 11l5 5 5-5M4 20h16"/></svg>面積 No.6</a></td></tr>
+      <tr><td class="d">12月14日（月）</td><td><a class="dl" href="/School_Stock_files/gakkyu/sayonara-sansu/pdf/sayonara4_1214.pdf" download><svg viewBox="0 0 24 24" fill="none" stroke="currentColor" stroke-width="2.2"><path d="M12 3v12M7 11l5 5 5-5M4 20h16"/></svg>No.39</a></td><td><a class="dl sub" href="/School_Stock_files/gakkyu/sayonara-sansu/pdf/fukushu4_1214.pdf" download><svg viewBox="0 0 24 24" fill="none" stroke="currentColor" stroke-width="2.2"><path d="M12 3v12M7 11l5 5 5-5M4 20h16"/></svg>がい数とその計算 No.9</a></td></tr>
+      <tr><td class="d">12月15日（火）</td><td><a class="dl" href="/School_Stock_files/gakkyu/sayonara-sansu/pdf/sayonara4_1215.pdf" download><svg viewBox="0 0 24 24" fill="none" stroke="currentColor" stroke-width="2.2"><path d="M12 3v12M7 11l5 5 5-5M4 20h16"/></svg>No.40</a></td><td><a class="dl sub" href="/School_Stock_files/gakkyu/sayonara-sansu/pdf/fukushu4_1215.pdf" download><svg viewBox="0 0 24 24" fill="none" stroke="currentColor" stroke-width="2.2"><path d="M12 3v12M7 11l5 5 5-5M4 20h16"/></svg>小数 No.2</a></td></tr>
+      <tr><td class="d">12月16日（水）</td><td><a class="dl" href="/School_Stock_files/gakkyu/sayonara-sansu/pdf/sayonara4_1216.pdf" download><svg viewBox="0 0 24 24" fill="none" stroke="currentColor" stroke-width="2.2"><path d="M12 3v12M7 11l5 5 5-5M4 20h16"/></svg>No.41</a></td><td><a class="dl sub" href="/School_Stock_files/gakkyu/sayonara-sansu/pdf/fukushu4_1216.pdf" download><svg viewBox="0 0 24 24" fill="none" stroke="currentColor" stroke-width="2.2"><path d="M12 3v12M7 11l5 5 5-5M4 20h16"/></svg>小数のかけ算とわり算 No.1</a></td></tr>
+      <tr><td class="d">12月17日（木）</td><td><a class="dl" href="/School_Stock_files/gakkyu/sayonara-sansu/pdf/sayonara4_1217.pdf" download><svg viewBox="0 0 24 24" fill="none" stroke="currentColor" stroke-width="2.2"><path d="M12 3v12M7 11l5 5 5-5M4 20h16"/></svg>No.42</a></td><td><a class="dl sub" href="/School_Stock_files/gakkyu/sayonara-sansu/pdf/fukushu4_1217.pdf" download><svg viewBox="0 0 24 24" fill="none" stroke="currentColor" stroke-width="2.2"><path d="M12 3v12M7 11l5 5 5-5M4 20h16"/></svg>式と計算の順じょ No.2</a></td></tr>
+      <tr><td class="d">12月18日（金）</td><td><a class="dl" href="/School_Stock_files/gakkyu/sayonara-sansu/pdf/sayonara4_1218.pdf" download><svg viewBox="0 0 24 24" fill="none" stroke="currentColor" stroke-width="2.2"><path d="M12 3v12M7 11l5 5 5-5M4 20h16"/></svg>No.43</a></td><td><a class="dl sub" href="/School_Stock_files/gakkyu/sayonara-sansu/pdf/fukushu4_1218.pdf" download><svg viewBox="0 0 24 24" fill="none" stroke="currentColor" stroke-width="2.2"><path d="M12 3v12M7 11l5 5 5-5M4 20h16"/></svg>小数のかけ算とわり算 No.2</a></td></tr>
+      <tr><td class="d">12月21日（月）</td><td><a class="dl" href="/School_Stock_files/gakkyu/sayonara-sansu/pdf/sayonara4_1221.pdf" download><svg viewBox="0 0 24 24" fill="none" stroke="currentColor" stroke-width="2.2"><path d="M12 3v12M7 11l5 5 5-5M4 20h16"/></svg>No.44</a></td><td><a class="dl sub" href="/School_Stock_files/gakkyu/sayonara-sansu/pdf/fukushu4_1221.pdf" download><svg viewBox="0 0 24 24" fill="none" stroke="currentColor" stroke-width="2.2"><path d="M12 3v12M7 11l5 5 5-5M4 20h16"/></svg>割合 No.3</a></td></tr>
+      <tr><td class="d">12月22日（火）</td><td><a class="dl" href="/School_Stock_files/gakkyu/sayonara-sansu/pdf/sayonara4_1222.pdf" download><svg viewBox="0 0 24 24" fill="none" stroke="currentColor" stroke-width="2.2"><path d="M12 3v12M7 11l5 5 5-5M4 20h16"/></svg>No.45</a></td><td><a class="dl sub" href="/School_Stock_files/gakkyu/sayonara-sansu/pdf/fukushu4_1222.pdf" download><svg viewBox="0 0 24 24" fill="none" stroke="currentColor" stroke-width="2.2"><path d="M12 3v12M7 11l5 5 5-5M4 20h16"/></svg>小数のかけ算とわり算 No.3</a></td></tr>
+      <tr><td class="d">12月23日（水）</td><td><a class="dl" href="/School_Stock_files/gakkyu/sayonara-sansu/pdf/sayonara4_1223.pdf" download><svg viewBox="0 0 24 24" fill="none" stroke="currentColor" stroke-width="2.2"><path d="M12 3v12M7 11l5 5 5-5M4 20h16"/></svg>No.46</a></td><td><a class="dl sub" href="/School_Stock_files/gakkyu/sayonara-sansu/pdf/fukushu4_1223.pdf" download><svg viewBox="0 0 24 24" fill="none" stroke="currentColor" stroke-width="2.2"><path d="M12 3v12M7 11l5 5 5-5M4 20h16"/></svg>一億をこえる数 No.3</a></td></tr>
+      <tr><td class="d">12月24日（木）</td><td><a class="dl" href="/School_Stock_files/gakkyu/sayonara-sansu/pdf/sayonara4_1224.pdf" download><svg viewBox="0 0 24 24" fill="none" stroke="currentColor" stroke-width="2.2"><path d="M12 3v12M7 11l5 5 5-5M4 20h16"/></svg>No.47</a></td><td><a class="dl sub" href="/School_Stock_files/gakkyu/sayonara-sansu/pdf/fukushu4_1224.pdf" download><svg viewBox="0 0 24 24" fill="none" stroke="currentColor" stroke-width="2.2"><path d="M12 3v12M7 11l5 5 5-5M4 20h16"/></svg>小数のかけ算とわり算 No.4</a></td></tr>
     </tbody>
   </table></div>
-  <div class="sh"><span class="sbar"></span><h2>印刷と使い方</h2></div>
+  <div class="sh"><span class="sbar"></span><h2>印刷のしかた</h2></div>
   <div class="note-use" style="border-left-color:var(--accent)">
     <ol style="margin-left:1.2em">
-      <li>1日ぶんのPDFは4ページです。順に「わり算の筆算と漢字の問題」「そのこたえ」「さよなら算数の問題」「そのこたえ」です。</li>
-      <li>子どもに配るのは問題の2まいです。月ごとの「問題だけ」を印刷すると、1か月ぶんをまとめて用意できます。</li>
-      <li>両面印刷にすると、表が問題、裏がこたえになります。自分で丸をつけさせたいときに使ってください。</li>
-      <li>漢字は、2学期に習う48字を順番に出しています。同じ字でも、回ごとに例文を変えています。</li>
+      <li>どのPDFも、1ページ目が問題、2ページ目がこたえです。両面印刷にすると、表が問題、裏がこたえになります。</li>
+      <li>月ごとのPDFは、1か月ぶんを続けて両面印刷できるようにしています。</li>
+      <li>さよなら算数とふく習プリントは、別のファイルにしています。使うほうだけ印刷してください。</li>
     </ol>
   </div>
 </div>

diff --git a/index.html b/index.html
@@ -273,7 +273,7 @@
     <a href="gakkyu/">月の目標カード<small>1か月の目標を1枚に。12か月ぶん</small></a>
     <a href="gakkyu/alt/">ALTの先生と話すカード<small>話しかける8枚・あいづち2枚</small></a>
     <a href="https://a-tozak.github.io/yamakasa-shiraberu/">飯塚山笠を調べよう<small>いま実践中。4年社会の単元の進め方とGemini Notebook</small></a>
-    <a href="gakkyu/sayonara-sansu/">さよなら算数<small>いま実践中。4年の毎日のわり算と漢字・帰りのふく習</small></a>
+    <a href="gakkyu/sayonara-sansu/">さよなら算数<small>いま実践中。4年の帰りのわり算の筆算と漢字</small></a>
     <div class="dr-sec">SUPPORT｜気になる子の支援</div>
     <a href="telop/">授業テロップ<small>話したことが字幕で出て、1行ずつ残る</small></a>
     <a class="sub2" href="ideas/a/telop-tsukaikata.html">授業テロップの使い方</a>
@@ -1119,11 +1119,11 @@
       </a>
 
       <a class="item" href="gakkyu/sayonara-sansu/">
-        <div class="thumb"><img src="gakkyu/sayonara-sansu/card.png" loading="lazy" alt="さよなら算数（わり算の筆算と漢字のプリントと、割合のふく習プリントが2まいならんだところ）"></div>
+        <div class="thumb"><img src="gakkyu/sayonara-sansu/card.png" loading="lazy" alt="さよなら算数（わり算の筆算4問と漢字5問のプリントの紙面）"></div>
         <div class="b">
           <span class="tag">いま実践中・4年算数</span>
           <h2>さよなら算数</h2>
-          <p>4年の学級で毎日使っている2まいのプリントです。1まい目は、わり算の筆算4問と漢字5問。2まい目は、帰る前に取り組む「さよなら算数」で、これまでに習った単元のふく習を1まいずつ出します。日にちごとに問題とこたえをまとめたPDFと、月ごとのまとめがあります。</p>
+          <p>4年の学級で、毎日帰る前に取り組んでいるプリントです。わり算の筆算4問と漢字5問を1まいにしています。表が問題、裏がこたえです。宿題に出しているふく習プリントも、日にちごとに別のファイルで置いています。</p>
           <span class="meta"><span>2026年11月〜12月の授業日37日ぶん</span><span class="go">くわしく見る →</span></span>
         </div>
       </a>
